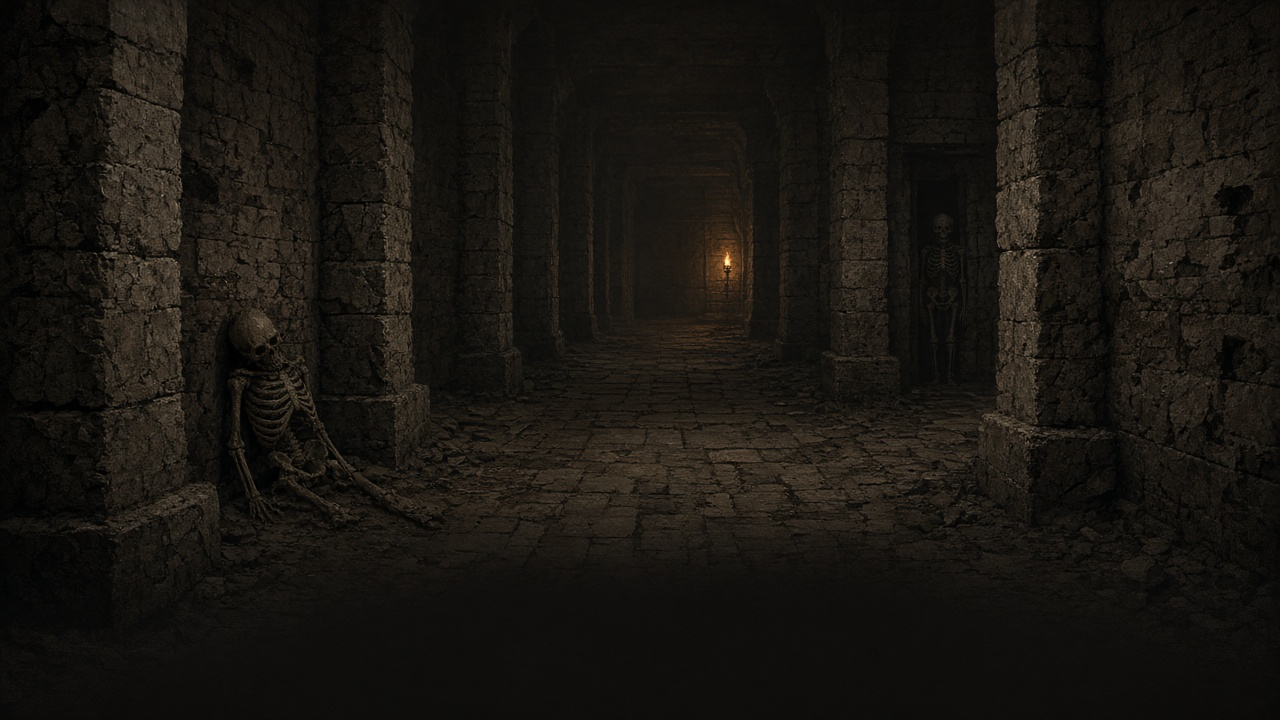
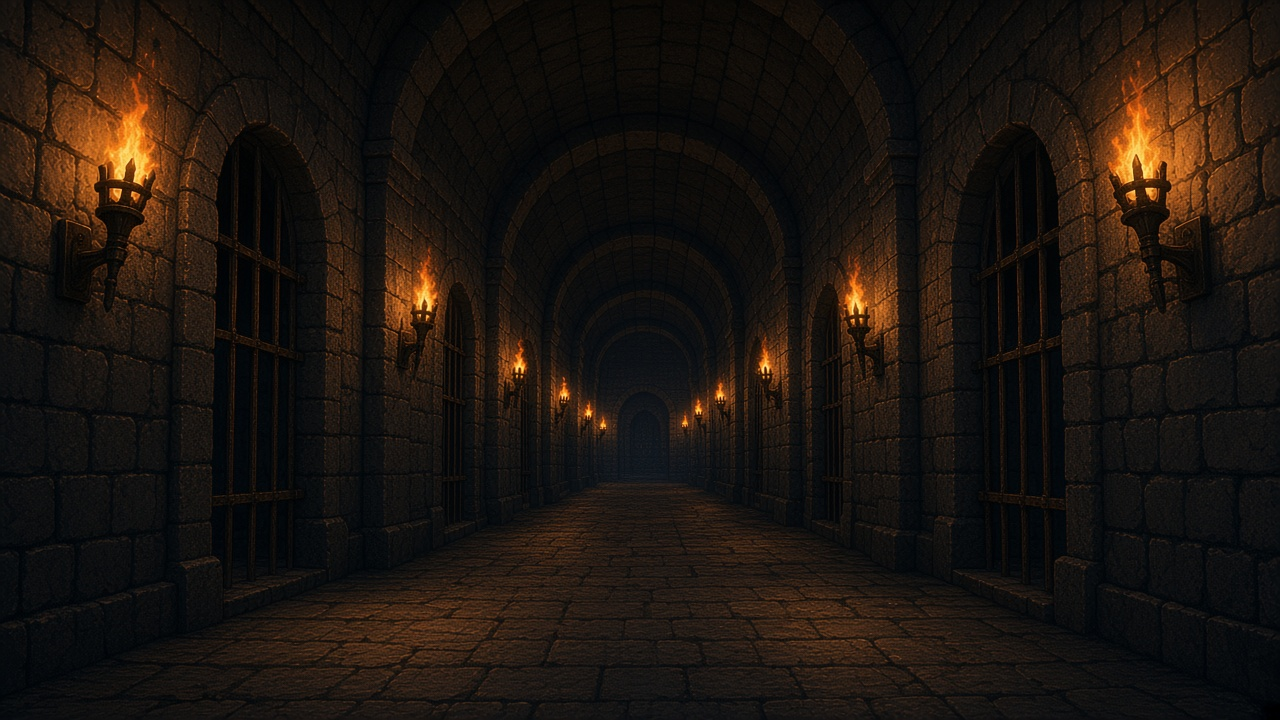
試作の画面まわりをまとめて公開する。敵カードの出方はボス、グローはレアリティ、マップ巻物・階層演出・ログ軸など

diff --git a/index.html b/index.html
@@ -133,21 +133,48 @@
       grid-area: road;
       min-width: 0;
       min-height: 0;
-      height: 100%;
+      height: auto;
       overflow: hidden;
       display: flex;
       flex-direction: column;
-      margin: 0;
-      padding: 8px 12px 10px;
-      border-radius: 16px;
-      border: 6px solid #e4b15a;
-      background: rgba(14, 11, 9, 0.98);
-      box-shadow:
-        0 0 0 2px #5c3a12,
-        inset 0 0 0 2px rgba(255, 241, 196, 0.35),
-        0 10px 22px rgba(0, 0, 0, 0.55);
+      container-type: inline-size;
+      margin: 14px 0 14px 2px;
+      padding: 0 12px 0;
+      border-radius: 6px;
+      border: 0;
+      /* ログと同じ巻物。羊皮紙は地図で、道はその上に並ぶ */
+      background: url("map-scroll-paper.jpg?v=1") center / calc(100% - 10px) 100% no-repeat;
+      background-position: calc(50% - 2px) 50%;
+      box-shadow: none;
       color: var(--cream);
       font-family: var(--log-serif);
+    }
+    .road-map::before,
+    .road-map::after {
+      content: "";
+      display: block;
+      position: relative;
+      z-index: 2;
+      flex: 0 0 auto;
+      width: auto;
+      margin-left: -10px;
+      margin-right: -14px;
+      background-size: 100% 100%;
+      background-repeat: no-repeat;
+      pointer-events: none;
+    }
+    .road-map::before {
+      aspect-ratio: 968 / 132;
+      margin-bottom: 8px;
+      background-image: url("log-scroll-top.jpg?v=1");
+      filter: drop-shadow(0 5px 6px rgba(0, 0, 0, 0.38));
+    }
+    .road-map::after {
+      aspect-ratio: 968 / 134;
+      background-image: url("log-scroll-bottom.jpg?v=1");
+      filter:
+        drop-shadow(0 -4px 5px rgba(0, 0, 0, 0.3))
+        drop-shadow(0 5px 6px rgba(0, 0, 0, 0.38));
     }
     .road-map h2 {
       flex: 0 0 auto;
@@ -168,6 +195,7 @@
       color: #fff3c4;
       text-shadow: 0 1px 0 #5a3810, 0 0 12px rgba(255, 206, 90, 0.45);
     }
+    .road-map > h2 { display: none; }
     .road-map ol {
       list-style: none;
       margin: 0;
@@ -213,12 +241,12 @@
       border-radius: 8px;
       object-fit: cover;
       object-position: center;
-      background: #1a1410;
+      background: transparent;
     }
     .road-node > i {
       display: grid;
       place-items: center;
-      border: 1px solid rgba(228, 177, 90, 0.35);
+      border: 0;
       font-family: inherit;
       font-size: 54px;
       font-weight: 900;
@@ -283,7 +311,7 @@
       z-index: 6;
       left: 14px;
       right: 14px;
-      bottom: 12px;
+      bottom: calc(8px + 100cqi * 134 / 968);
       margin: 0;
       padding: 7px 8px 8px;
       border: 0;
@@ -2117,13 +2145,7 @@
       width: min(420px, 24cqw);
       max-width: none;
     }
-    .overlay.victory .reward-pick.reward-foe .card.preview,
-    .overlay.victory .reward-pick.reward-foe:hover .card.preview {
-      box-shadow:
-        0 0 0 2px #d7b4ff,
-        0 0 22px 8px rgba(150, 70, 220, 0.78),
-        0 22px 36px rgba(0, 0, 0, 0.55);
-    }
+    /* 敵カードの枠グローはレアリティの --lit に任せる（紫の固定影は出さない） */
     .reward-extra { display: flex; justify-content: center; gap: 18px; flex-wrap: wrap; margin: 0 0 8px; }
     .reward-extra .reward-pick { cursor: pointer; }
     .overlay.victory .reward-extra .reward-pick.gear-pick { width: auto; max-width: none; }
@@ -5551,6 +5573,8 @@
       margin: 0 -22px;
       background-size: 100% 100%;
       background-repeat: no-repeat;
+      /* 元絵の四隅の暗い茶色だけ隠す。軸の先までは削らない */
+      border-radius: 10px;
     }
     /* 巻き軸は大きく。下の軸は、ログが短くても巻物の一番下に固定（2026-11-27） */
     .battle-log { display: flex; flex-direction: column; }
@@ -9378,7 +9402,7 @@
     .menu.event.train { --choice-w: 300px; }
     .menu.event.train .event-lead { grid-template-columns: minmax(0, 0.78fr) minmax(0, 1.22fr); }
     .menu.event.train .gift-row { flex-wrap: nowrap; }
-    .menu.event .road-map { grid-area: map; height: 100%; min-height: 0; align-self: stretch; }
+    .menu.event .road-map { grid-area: map; height: 100%; min-height: 0; align-self: stretch; margin: 0; }
     .menu.event.shop .event-choice {
       justify-content: stretch;
       align-items: stretch;
@@ -9479,6 +9503,7 @@
     .event-map .road-map {
       height: 100%;
       width: 100%;
+      margin: 0;
       grid-area: auto;
     }
     .event-hud .small-btn.on {
@@ -9508,8 +9533,8 @@
       grid-area: auto;
       height: 100%;
       width: 100%;
+      margin: 0;
       box-shadow: none;
-      background: transparent;
     }
     .event-drawers .deck-drawer { padding: 10px 12px 14px; }
     .event-drawers .deck-drawer h2 {
@@ -11054,12 +11079,36 @@
       pointer-events: none;
       transition: opacity 0.26s ease;
     }
-    /* 階層が進むとき：黒ではなく、ダンジョン（洞窟など）の画像のうえに階数だけ */
+    /* 階層が進むとき：ダンジョン選択と同じ洞窟の絵をズームして、そのうえに階数 */
     .scene-fade.scene-fade-floor i {
-      background:
-        linear-gradient(rgba(0, 0, 0, 0.28), rgba(0, 0, 0, 0.28)),
-        var(--scene-dungeon, #000) center / cover no-repeat;
+      background: #070605;
+      overflow: hidden;
       transition-duration: 0.14s;
+    }
+    .scene-fade.scene-fade-floor .scene-floor-zoom {
+      position: absolute;
+      inset: 0;
+      width: 100%;
+      height: 100%;
+      object-fit: cover;
+      transform: scale(1.02);
+      filter: brightness(0.55);
+      opacity: 0;
+    }
+    .scene-fade.scene-fade-floor.in .scene-floor-zoom {
+      opacity: 1;
+      animation: scene-floor-zoom 1.9s ease forwards;
+    }
+    .scene-fade.scene-fade-floor.out .scene-floor-zoom {
+      animation: none;
+      opacity: 0;
+      transition: opacity 0.55s ease;
+    }
+    @keyframes scene-floor-zoom {
+      0% { transform: scale(1.02); filter: brightness(0.55); }
+      18% { transform: scale(1.08); filter: brightness(1); }
+      72% { transform: scale(1.18); filter: brightness(1); }
+      100% { transform: scale(1.24); filter: brightness(0.2); }
     }
     .scene-fade.in i { opacity: 1; }
     .scene-fade.out i { opacity: 0; transition-duration: 0.42s; }
@@ -11074,9 +11123,14 @@
       opacity: 0;
       transition: opacity 0.14s ease;
     }
-    .scene-fade.in .scene-floor { opacity: 1; }
-    .scene-fade.out .scene-floor { opacity: 0; transition-duration: 0.16s; }
+    .scene-fade.in .scene-floor { opacity: 1; animation: scene-floor-num 1.9s ease both; }
+    .scene-fade.out .scene-floor { opacity: 0; transition-duration: 0.16s; animation: none; }
     .scene-fade.scene-fade-floor.out .scene-floor { transition-duration: 0.7s; }
+    @keyframes scene-floor-num {
+      0%, 12% { opacity: 0; }
+      28%, 68% { opacity: 1; }
+      100% { opacity: 0; }
+    }
     .scene-cross { animation: scene-cross 0.7s ease both; }
     @keyframes scene-cross {
       from { opacity: 0; }
@@ -13521,6 +13575,17 @@
     .reward-pick.rare-boss .card.preview, .gift-show.rare-boss .card.preview, .gift-btn.rare-boss .card.preview {
       animation: rare-flip-hot 1.2s cubic-bezier(0.2, 0.8, 0.2, 1) both, reward-lit 1.15s ease-in-out infinite;
     }
+    /* 敵のカード報酬：出方はボスと同じ。脈打つグローの色だけレアリティどおり（2026-11-28） */
+    .reward-pick.reward-foe.rare-1 .card.preview,
+    .reward-pick.reward-foe.rare-2 .card.preview,
+    .reward-pick.reward-foe.rare-boss .card.preview {
+      animation: rare-flip-hot 1.2s cubic-bezier(0.2, 0.8, 0.2, 1) both, reward-lit 1.15s ease-in-out infinite;
+    }
+    .reward-pick.reward-foe.rare-3 .card.preview,
+    .reward-pick.reward-foe.rare-4 .card.preview,
+    .reward-pick.reward-foe.rare-5 .card.preview {
+      animation: rare-flip-hot 1.2s cubic-bezier(0.2, 0.8, 0.2, 1) both, reward-lit-gold 1.15s ease-in-out infinite;
+    }
     @keyframes rare-flip {
       0% { transform: perspective(700px) rotateY(-100deg) scale(0.82); filter: brightness(3); opacity: 0; }
       55% { transform: perspective(700px) rotateY(10deg) scale(1.1); filter: brightness(1.7); opacity: 1; }
@@ -14374,8 +14439,15 @@
       };
       place(pane, box);
       if (showFloor) {
-        const bg = (opt && opt.bg) || battleArt(dungeonName) || "";
-        if (bg) pane.style.setProperty("--scene-dungeon", `url("${bg}")`);
+        // ダンジョン選択と同じ「洞窟」などの絵をズーム。道や戦闘背景は使わない
+        const bg = (opt && opt.bg) || dungeonArt(dungeonName) || "";
+        if (bg) {
+          const art = document.createElement("img");
+          art.className = "scene-floor-zoom";
+          art.alt = "";
+          art.src = bg;
+          pane.appendChild(art);
+        }
       }
       veil.appendChild(pane);
       if (showFloor) {
@@ -14392,8 +14464,8 @@
         veil.appendChild(mark);
       }
       mountFloat(veil);
-      const fadeIn = showFloor ? 160 : 280;
-      const hold = showFloor ? 900 : 0;
+      const fadeIn = showFloor ? 120 : 280;
+      const hold = showFloor ? 1500 : 0;
       const fadeOut = showFloor ? 700 : 440;
       requestAnimationFrame(() => requestAnimationFrame(() => veil.classList.add("in")));
       setTimeout(() => {
@@ -15709,7 +15781,7 @@
         render();
       }, {
         floor: announce ? floorNo() : null,
-        bg: battleArt(dungeonName),
+        bg: dungeonArt(dungeonName),
         after: () => {
           floorOnFade = false;
           if (token !== floorAnnounceToken || phase !== "intro" || outcome) return;
@@ -22723,6 +22795,9 @@
         if (runEnchants[card.name] || !canTakeEnchant(card, elem)) blocked.push(card);
         else cards.push(card);
       }
+      // カードリストと同じ並び（ジャンル→コスト→レア→名前）
+      cards.sort(compareCardListOrder);
+      blocked.sort(compareCardListOrder);
       const pickedCard = cards.find((card) => card.name === pickedName) || null;
       const choice = (card) => {
         const picked = pickedName === card.name ? " picked" : "";
@@ -22994,7 +23069,7 @@
         eventFloorCall = false;
         render();
         if (floorKind === "挑戦者に祝福を" && floorPhase === "bless") playBlessArrive();
-      }, { floor: announce ? floorNo() : null, bg: battleArt(dungeonName) });
+      }, { floor: announce ? floorNo() : null, bg: dungeonArt(dungeonName) });
     }
 
     function emptyRunSheet() {
@@ -24956,9 +25031,9 @@
       return item ? item.art : DUNGEON_LIST[0].art;
     }
 
-    /* 戦闘のうしろ：洞窟は骸骨のいる石の廊下を、カード絵柄に直したもの */
+    /* 戦闘のうしろ：洞窟は採用済み dungeon-bg（カード絵柄・目線・途中に牢） */
     function battleArt(name) {
-      return name === "洞窟" ? "dungeon-bg-card.jpg?v=1" : dungeonArt(name);
+      return name === "洞窟" ? "dungeon-bg.jpg?v=2" : dungeonArt(name);
     }
 
     function renderDungeonGate() {
@@ -26096,11 +26171,18 @@
           : menuButton("進む", "floor-next", true))
         : "";
       const beggar = floorKind === "物乞いに遭遇"
-        ? `<div class="deck-cards beggar-cards">${runDeck().map((card, i) => {
-          const face = `<div class="card preview ${cardKind(card)}">${cardFace(card, false)}</div>`;
-          const picked = i === beggarPick ? " picked" : "";
-          return `<button type="button" class="beggar-card${picked}" data-action="beggar-pick" data-index="${i}">${face}</button>`;
-        }).join("") || `<p>外せるカードは無い。</p>`}</div><div class="event-actions">${menuButton("無視して進む", "beggar-skip")}${menuButton("渡すカードを選んで決定", "beggar-confirm", true, beggarPick < 0)}</div>`
+        ? (() => {
+          const deck = runDeck();
+          // 表示順はカードリストと同じ。data-index は runDeck の位置のまま
+          const order = deck.map((_, i) => i).sort((a, b) => compareCardListOrder(deck[a], deck[b]));
+          const faces = order.map((i) => {
+            const card = deck[i];
+            const face = `<div class="card preview ${cardKind(card)}">${cardFace(card, false)}</div>`;
+            const picked = i === beggarPick ? " picked" : "";
+            return `<button type="button" class="beggar-card${picked}" data-action="beggar-pick" data-index="${i}">${face}</button>`;
+          }).join("");
+          return `<div class="deck-cards beggar-cards">${faces || `<p>外せるカードは無い。</p>`}</div><div class="event-actions">${menuButton("無視して進む", "beggar-skip")}${menuButton("渡すカードを選んで決定", "beggar-confirm", true, beggarPick < 0)}</div>`;
+        })()
         : "";
       const searchActions = floorKind === "探索" && floorPhase === "search"
         ? `<div class="gift-row">${searchPicks.map((pick, i) => {
